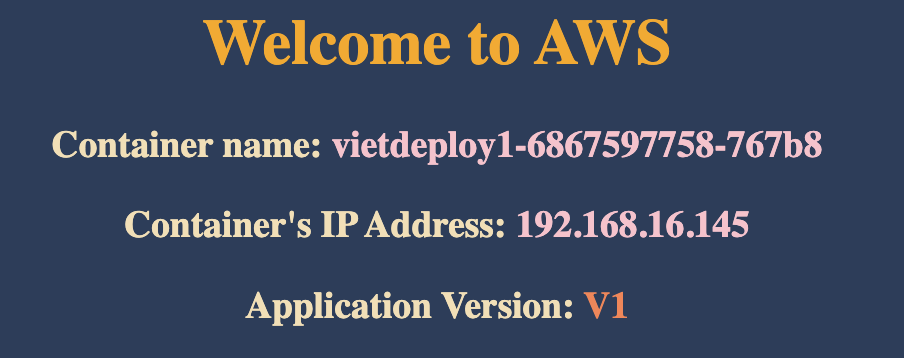
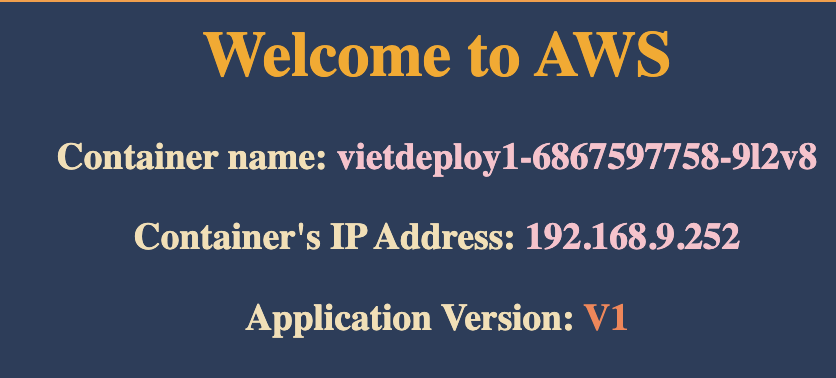
update k8s & eks training content

diff --git a/00-k8s-fundamentals/09-deployment.md b/00-k8s-fundamentals/09-deployment.md
@@ -36,57 +36,130 @@ kubectl get rs
 kubectl get pods
 ```
 
-# 2⃣ Scale Deployment
+### Output
+
+Deployment
 
 ```
-# Scale Up the Deployment
-kubectl scale --replicas=10 deployment/<deployment-name>
-kubectl scale --replicas=10 deployment/vietdeploy1
+NAME          READY   UP-TO-DATE   AVAILABLE   AGE
+vietdeploy1   1/1     1            1           29s
+```
+
+ReplicaSet
+
+```
+NAME                     DESIRED   CURRENT   READY   AGE
+vietdeploy1-6867597758   1         1         1       57s
+```
+
+Pods
+
+```
+NAME                           READY   STATUS    RESTARTS   AGE
+vietdeploy1-6867597758-vlbjr   1/1     Running   0          89s
+```
+
+# 2⃣ Scale Deployment
+
+## Scale Out
+
+### Commands
+
+```
+kubectl scale --replicas=4 deployment/<deployment-name>
+kubectl scale --replicas=4 deployment/vietdeploy1
 # Output: deployment.apps/vietdeploy1 scaled
 
 # Verify Deployment
 kubectl get deploy
-
-# Verify ReplicaSet
 kubectl get rs
+kubectl get pods
+```
 
-# Verify Pods
+### Output
+
+```
+# Deployment
+NAME          READY   UP-TO-DATE   AVAILABLE   AGE
+vietdeploy1   4/4     4            4           8m28s
+
+# ReplicaSet
+NAME                     DESIRED   CURRENT   READY   AGE
+vietdeploy1-6867597758   4         4         4       8m59s
+
+# Pod
+NAME                           READY   STATUS    RESTARTS   AGE
+vietdeploy1-6867597758-6zpfz   1/1     Running   0          52s
+vietdeploy1-6867597758-895ng   1/1     Running   0          52s
+vietdeploy1-6867597758-vlbjr   1/1     Running   0          9m14s
+vietdeploy1-6867597758-zt4t9   1/1     Running   0          52s
+```
+
+## Scale In
+
+### Commands
+
+```
+kubectl scale --replicas=2 deployment/vietdeploy1
+
+# Verify
+
+kubectl get deployments
+kubectl get rs
 kubectl get pods
 
-# Scale Down the Deployment
-kubectl scale --replicas=5 deployment/vietdeploy1
-kubectl get deploy
+```
 
-# Verify Pods
-kubectl get pods
+### Output
+
+```
+# Deployment
+NAME          READY   UP-TO-DATE   AVAILABLE   AGE
+vietdeploy1   2/2     2            2           10m
+
+# ReplicaSet
+NAME                     DESIRED   CURRENT   READY   AGE
+vietdeploy1-6867597758   2         2         2       10m
+
+# Pods
+NAME                           READY   STATUS    RESTARTS   AGE
+vietdeploy1-6867597758-895ng   1/1     Running   0          2m43s
+vietdeploy1-6867597758-vlbjr   1/1     Running   0          11m
 ```
 
 # 3⃣ Expose Deployment as a Service
 
 ```
+
 # Expose Deployment as a Service
-kubectl expose deployment <deployment-name>  --type=NodePort --port=8080 --name=<service-name>
-kubectl expose deployment vietdeploy1 --type=NodePort --port=8080 --name=service1
+
+kubectl expose deployment <deployment-name> --type=NodePort --port=8080
+--name=<service-name> kubectl expose deployment vietdeploy1 --type=NodePort
+--port=8080 --name=service1
+
 # Output: service/service1 exposed
 
 # Get Service Info
-kubectl get svc
-Observation: Make a note of port which starts with 3 (Example: 80:3xxxx/TCP). Capture the port 3xxxx and use it in application URL below.
+
+kubectl get svc Observation: Make a note of port which starts with 3 (Example:
+80:3xxxx/TCP). Capture the port 3xxxx and use it in application URL below.
 
 # Get Public IP of Worker Nodes
-kubectl get nodes -owide
-Observation: Make a note of "EXTERNAL-IP" if your Kubernetes cluster is setup on Amazon EKS.
+
+kubectl get nodes -owide Observation: Make a note of "EXTERNAL-IP" if your
+Kubernetes cluster is setup on Amazon EKS.
+
 ```
 
 **Pod Output:**
 
 ```
-NAME                           READY   STATUS    RESTARTS   AGE
-vietdeploy1-6867597758-767b8   1/1     Running   0          63s
-vietdeploy1-6867597758-9rckw   1/1     Running   0          63s
-vietdeploy1-6867597758-cmsz4   1/1     Running   0          2m9s
-vietdeploy1-6867597758-w9dtt   1/1     Running   0          63s
-vietdeploy1-6867597758-zr89h   1/1     Running   0          63s
+
+NAME READY STATUS RESTARTS AGE vietdeploy1-6867597758-2h64z 1/1 Running 0 16s
+vietdeploy1-6867597758-9l2v8 1/1 Running 0 16s vietdeploy1-6867597758-k5pht 1/1
+Running 0 64s vietdeploy1-6867597758-lkw6t 1/1 Running 0 16s
+vietdeploy1-6867597758-ntm59 1/1 Running 0 16s
+
 ```
 
 Website:
@@ -96,14 +169,23 @@ Website:
 # 4⃣ Update Deployment
 
 ```
+
 # Get Container Name from current deployment
+
 kubectl get deployment vietdeploy1 -o yaml
+
 # Output Container Name: eks
+
 # Output Container Image: vietaws/eks:v1
 
 # Update Deployment to Version 2
-kubectl set image deployment/<deployment-name> <container-name>=<container-image>
-kubectl set image deployment/vietdeploy1 eks=vietaws/eks:v2
+
+kubectl set image deployment/<deployment-name>
+<container-name>=<container-image> kubectl set image deployment/vietdeploy1
+eks=vietaws/eks:v2
+
+# Output: deployment.apps/vietdeploy1 image updated
+
 ```
 
 ### 🔑 Before
@@ -111,32 +193,35 @@ kubectl set image deployment/vietdeploy1 eks=vietaws/eks:v2
 Deployment
 
 ```
+
 kubectl get deployments
 
-NAME          READY   UP-TO-DATE   AVAILABLE   AGE
-vietdeploy1   5/5     5            5           21m
+NAME READY UP-TO-DATE AVAILABLE AGE vietdeploy1 5/5 5 5 3m22s
+
 ```
 
 ReplicaSet
 
 ```
+
 kubectl get rs
 
-NAME                     DESIRED   CURRENT   READY   AGE
-vietdeploy1-5fd8d5c7cb   5         5         5       2m54s
+NAME DESIRED CURRENT READY AGE vietdeploy1-6867597758 0 0 0 3m38s
+vietdeploy1-7bb4b549bf 5 5 5 40s
+
 ```
 
 Pods
 
 ```
+
 kubectl get pods
 
-NAME                           READY   STATUS    RESTARTS   AGE
-vietdeploy1-5fd8d5c7cb-fjzhd   1/1     Running   0          3m22s
-vietdeploy1-5fd8d5c7cb-gjglv   1/1     Running   0          3m22s
-vietdeploy1-5fd8d5c7cb-lmzvg   1/1     Running   0          3m23s
-vietdeploy1-5fd8d5c7cb-qf9ts   1/1     Running   0          3m23s
-vietdeploy1-5fd8d5c7cb-tbnq9   1/1     Running   0          3m21s
+NAME READY STATUS RESTARTS AGE vietdeploy1-5fd8d5c7cb-fjzhd 1/1 Running 0 3m22s
+vietdeploy1-5fd8d5c7cb-gjglv 1/1 Running 0 3m22s vietdeploy1-5fd8d5c7cb-lmzvg
+1/1 Running 0 3m23s vietdeploy1-5fd8d5c7cb-qf9ts 1/1 Running 0 3m23s
+vietdeploy1-5fd8d5c7cb-tbnq9 1/1 Running 0 3m21s
+
 ```
 
 ### 💎 After
@@ -144,11 +229,12 @@ vietdeploy1-5fd8d5c7cb-tbnq9   1/1     Running   0          3m21s
 ✅ ReplicaSet
 
 ```
+
 kubectl get rs
 
-NAME                     DESIRED   CURRENT   READY   AGE
-vietdeploy1-5fd8d5c7cb   0         0         0       5m43s
-vietdeploy1-7bb4b549bf   5         5         5       48s
+NAME DESIRED CURRENT READY AGE vietdeploy1-5fd8d5c7cb 0 0 0 5m43s
+vietdeploy1-7bb4b549bf 5 5 5 48s
+
 ```
 
 🌈 New Pods go from OLD ReplicaSet `vietdeploy1-5fd8d5c7cb` to NEW ReplicaSet
@@ -157,15 +243,31 @@ vietdeploy1-7bb4b549bf   5         5         5       48s
 ✅ Pods
 
 ```
+
 kubectl get pods
 
-NAME                           READY   STATUS    RESTARTS   AGE
-vietdeploy1-7bb4b549bf-7jlgn   1/1     Running   0          3m41s
-vietdeploy1-7bb4b549bf-nlq82   1/1     Running   0          3m39s
-vietdeploy1-7bb4b549bf-qdtdf   1/1     Running   0          3m41s
-vietdeploy1-7bb4b549bf-w7jh9   1/1     Running   0          3m41s
-vietdeploy1-7bb4b549bf-wn56p   1/1     Running   0          3m39s
+NAME READY STATUS RESTARTS AGE vietdeploy1-7bb4b549bf-7jlgn 1/1 Running 0 3m41s
+vietdeploy1-7bb4b549bf-nlq82 1/1 Running 0 3m39s vietdeploy1-7bb4b549bf-qdtdf
+1/1 Running 0 3m41s vietdeploy1-7bb4b549bf-w7jh9 1/1 Running 0 3m41s
+vietdeploy1-7bb4b549bf-wn56p 1/1 Running 0 3m39s
+
 ```
 
 ➡ All Pods are re-deployed. By default, `Rolling deployment` is used and there
 is no downtime.
+
+```
+
+```
+
+```
+
+```
+
+```
+
+```
+
+```
+
+```
